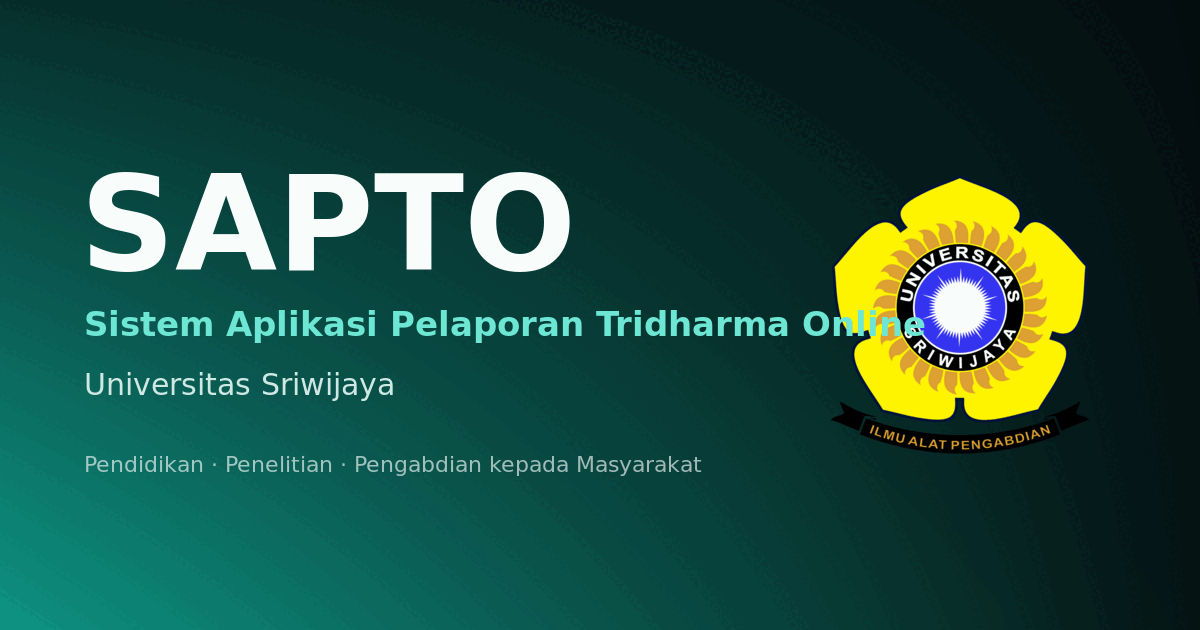
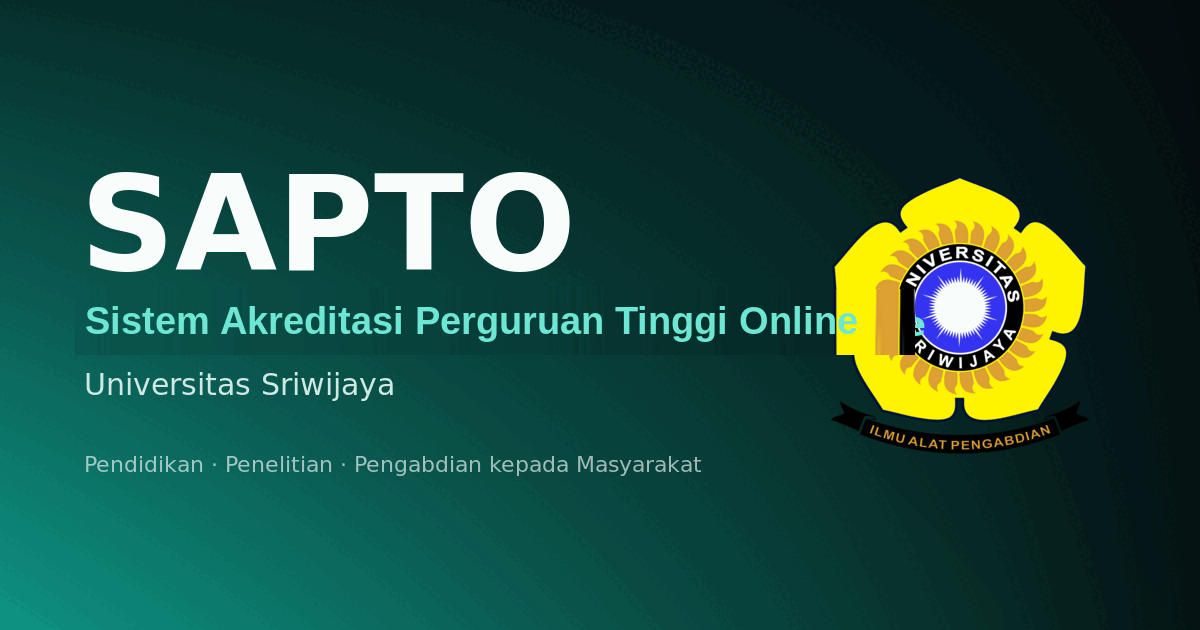
fix(sapto): perbaiki OG image, foto background login, versi title, dan optimasi performa blur
- Perbaiki tagline yang tidak konsisten di gambar OG (og-sapto.png) supaya
  cocok dengan penamaan "Sistem Akreditasi Perguruan Tinggi Online" di
  seluruh aplikasi
- Tambah foto gerbang UNSRI (diredupkan/blur) sebagai background halaman
  login, di belakang kartu glass
- Tambah "v1.0 - UNSRI" ke title utama, halaman login, dan meta SEO
- Turunkan blur (--glass-blur) dari 20-26px ke 14px (8px di mobile,
  0 kalau OS minta reduce-transparency) -- backdrop-filter blur yang berat
  di banyak panel sekaligus (terutama sidebar 26px) adalah penyebab utama
  frame drop di device low-end

Changed region(s): [[0.0617, 0.4524, 0.7708, 0.573]]

diff --git a/resources/css/app.css b/resources/css/app.css
@@ -58,7 +58,11 @@
     --glass-border: rgba(255, 255, 255, 0.60);
     --glass-hi: rgba(255, 255, 255, 0.75);
     --glass-shadow: 0 12px 34px -14px rgba(15, 27, 45, 0.30);
-    --glass-blur: 20px;
+    /* backdrop-filter blur cost scales with radius -- 20px+ stacked across a
+       dozen concurrent glass panels (sidebar, sticky topbar, cards, inputs)
+       is the main cause of scroll frame drops on weaker/mobile GPUs. 14px
+       reads almost identically but is materially cheaper to composite. */
+    --glass-blur: 14px;
 
     --row-hover: rgba(15, 27, 45, 0.04);
     --skeleton: rgba(15, 27, 45, 0.10);
@@ -113,7 +117,7 @@
     --glass-border: rgba(255, 255, 255, 0.10);
     --glass-hi: rgba(255, 255, 255, 0.12);
     --glass-shadow: 0 22px 46px -18px rgba(0, 0, 0, 0.60);
-    --glass-blur: 22px;
+    --glass-blur: 14px;
 
     --row-hover: rgba(255, 255, 255, 0.045);
     --skeleton: rgba(255, 255, 255, 0.10);
@@ -177,6 +181,31 @@
         --side-border: rgba(255, 255, 255, 0.08);
         --aura-1: rgba(129, 140, 248, 0.045);
         --aura-2: rgba(100, 116, 139, 0.06);
+    }
+}
+
+/* Phones are both where "spek kurang" lives and where a large blur radius is
+   least visible on a small screen -- cut it further there. Repeats every
+   selector that sets --glass-blur (light default / explicit dark / OS-dark)
+   at matching specificity so this wins in all three regardless of source
+   order; a plain `:root { }` here would lose to `:root[data-theme]`. */
+@media (max-width: 768px) {
+    :root,
+    :root[data-theme='dark'],
+    :root:not([data-theme]) {
+        --glass-blur: 8px;
+    }
+}
+
+/* Respect the OS-level "reduce transparency" setting (Windows/macOS/iOS) --
+   it exists for exactly this: weaker GPUs and motion/vestibular sensitivity.
+   Panels fall back to a solid-ish surface instead of blurring. */
+@media (prefers-reduced-transparency: reduce) {
+    :root {
+        --glass-blur: 0px;
+        --glass-bg: var(--color-surface);
+        --glass-bg-strong: var(--color-surface);
+        --side-bg: var(--color-surface);
     }
 }
 
@@ -395,8 +424,11 @@ body::before {
     /* ---- Sidebar ---- */
     .side-glass {
         background: var(--side-bg);
-        -webkit-backdrop-filter: blur(26px) saturate(120%);
-        backdrop-filter: blur(26px) saturate(120%);
+        /* Was a hardcoded 26px, the single heaviest blur in the app and
+           always on-screen -- now shares --glass-blur so it drops with the
+           rest of the panels (and the mobile override below). */
+        -webkit-backdrop-filter: blur(var(--glass-blur)) saturate(120%);
+        backdrop-filter: blur(var(--glass-blur)) saturate(120%);
         border-right: 1px solid var(--side-border);
         color: var(--side-text);
     }

diff --git a/resources/views/auth/login.blade.php b/resources/views/auth/login.blade.php
@@ -4,7 +4,7 @@
     <meta charset="utf-8">
     <meta name="viewport" content="width=device-width, initial-scale=1, viewport-fit=cover">
     <meta name="theme-color" id="theme-color-meta" content="#e7ecf5">
-    <title>Masuk — SAPTO Universitas Sriwijaya</title>
+    <title>Masuk — SAPTO v1.0 - UNSRI</title>
     <link rel="icon" href="{{ asset('images/logo-unsri.webp') }}" type="image/webp">
     @include('components.seo-meta')
     <script>
@@ -35,6 +35,36 @@
             min-height: 100vh;
             min-height: 100dvh;
             padding: 1.5rem;
+            position: relative;
+            isolation: isolate;
+            /* Gerbang kampus UNSRI, sengaja diredupkan lewat gradient + foto
+               yang sudah diproses gelap/blur -- supaya .auth-card (glass) di
+               atasnya tetap gampang dibaca dan tidak baku hantam warna
+               dengan .auth-context yang gradasinya sudah gelap juga. Fixed
+               background ini cuma berlaku di halaman login (scoped ke sini),
+               tidak menyentuh app.css/halaman lain. */
+            background:
+                linear-gradient(165deg, rgba(5, 9, 16, 0.88) 0%, rgba(11, 15, 30, 0.78) 45%, rgba(30, 27, 75, 0.6) 100%),
+                url('{{ asset('images/login-bg.jpg') }}') center/cover no-repeat fixed;
+        }
+
+        /* Baris brand mobile duduk langsung di atas foto (bukan di dalam
+           kartu glass), dan foto itu sekarang selalu gelap terlepas dari
+           tema -- teks perlu warna terang tetap supaya tidak tenggelam saat
+           tema terang dipilih (text-ink jadi gelap di tema terang). */
+        .auth-mobile-brand,
+        .auth-mobile-brand .text-ink {
+            color: #f8fdfc;
+        }
+
+        .auth-mobile-brand .text-muted,
+        .auth-mobile-stat .text-muted {
+            color: rgba(243, 250, 248, 0.72);
+        }
+
+        .auth-mobile-stat.glass {
+            background: rgba(255, 255, 255, 0.14);
+            border-color: rgba(255, 255, 255, 0.22);
         }
 
         .auth-grid {

diff --git a/resources/views/layouts/sapto.blade.php b/resources/views/layouts/sapto.blade.php
@@ -4,7 +4,7 @@
     <meta charset="utf-8">
     <meta name="viewport" content="width=device-width, initial-scale=1, viewport-fit=cover">
     <meta name="theme-color" id="theme-color-meta" content="#e7ecf5">
-    <title>@yield('title', 'SAPTO — Sistem Akreditasi Perguruan Tinggi Online Universitas Sriwijaya')</title>
+    <title>@yield('title', 'SAPTO v1.0 - UNSRI — Sistem Akreditasi Perguruan Tinggi Online Universitas Sriwijaya')</title>
     <link rel="icon" href="{{ asset('images/logo-unsri.webp') }}" type="image/webp">
     @include('components.seo-meta')
     {{-- Set the theme before first paint to avoid a light/dark flash. Only an

diff --git a/resources/views/components/topbar.blade.php b/resources/views/components/topbar.blade.php
@@ -20,7 +20,7 @@
                 <span id="breadcrumb-group"></span>
             </span>
         </nav>
-        <h1 id="page-title" class="truncate text-[15px] font-bold leading-tight text-ink sm:overflow-visible sm:whitespace-normal sm:text-[17px] lg:text-[21px]">
+        <h1 id="page-title" class="truncate text-[15px] font-semibold leading-tight text-ink sm:overflow-visible sm:whitespace-normal sm:text-[17px] lg:text-[19px]">
             Tabel 3.a.2) Dosen Pembimbing Utama Tugas Akhir
         </h1>
         <p id="page-description" class="mt-1 hidden text-[12px] leading-relaxed text-muted sm:block sm:text-[13px]">

diff --git a/resources/views/components/seo-meta.blade.php b/resources/views/components/seo-meta.blade.php
@@ -7,7 +7,7 @@
     tampil saat link dibagikan — bukan "link polos".
 --}}
 @php
-    $seoTitle = 'SAPTO — Sistem Akreditasi Perguruan Tinggi Online Universitas Sriwijaya';
+    $seoTitle = 'SAPTO v1.0 - UNSRI — Sistem Akreditasi Perguruan Tinggi Online Universitas Sriwijaya';
     $seoDesc = 'Portal pelaporan data Tridharma (pendidikan, penelitian, dan pengabdian kepada masyarakat) Universitas Sriwijaya untuk kebutuhan akreditasi program studi (BAN-PT/LAM).';
     $seoImage = asset('images/og-sapto.png');
     $seoUrl = url('/');
